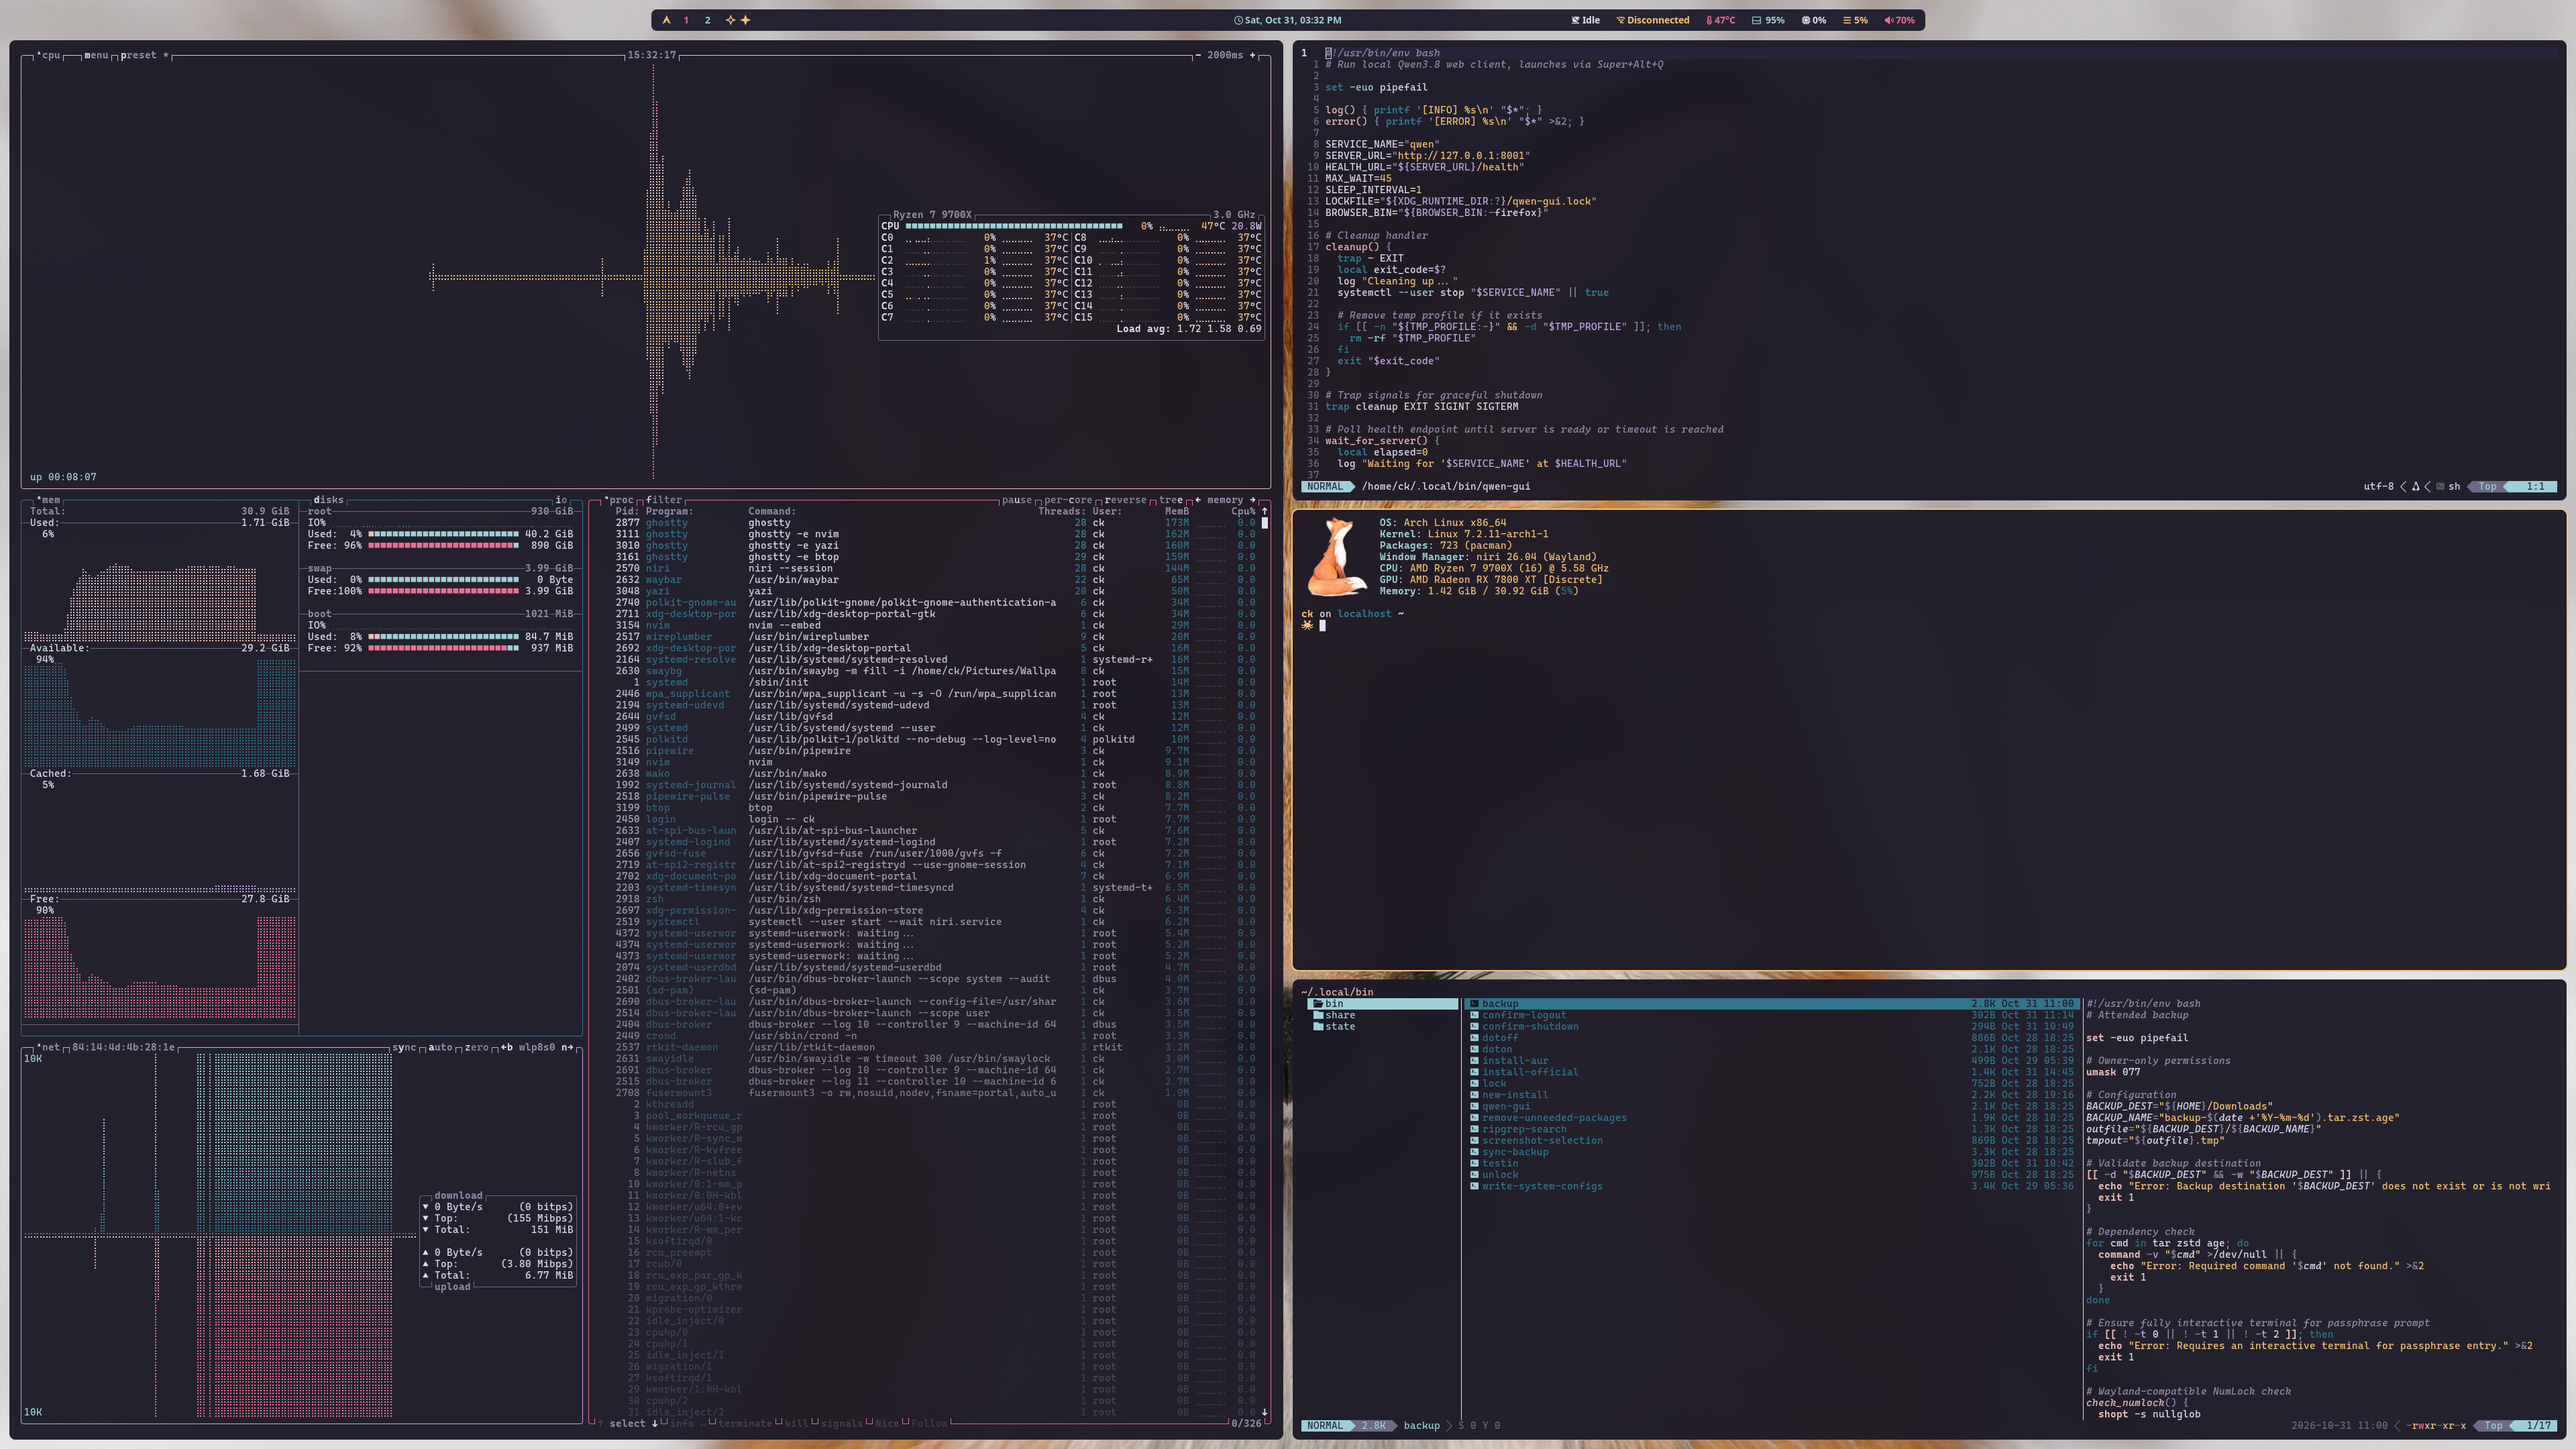
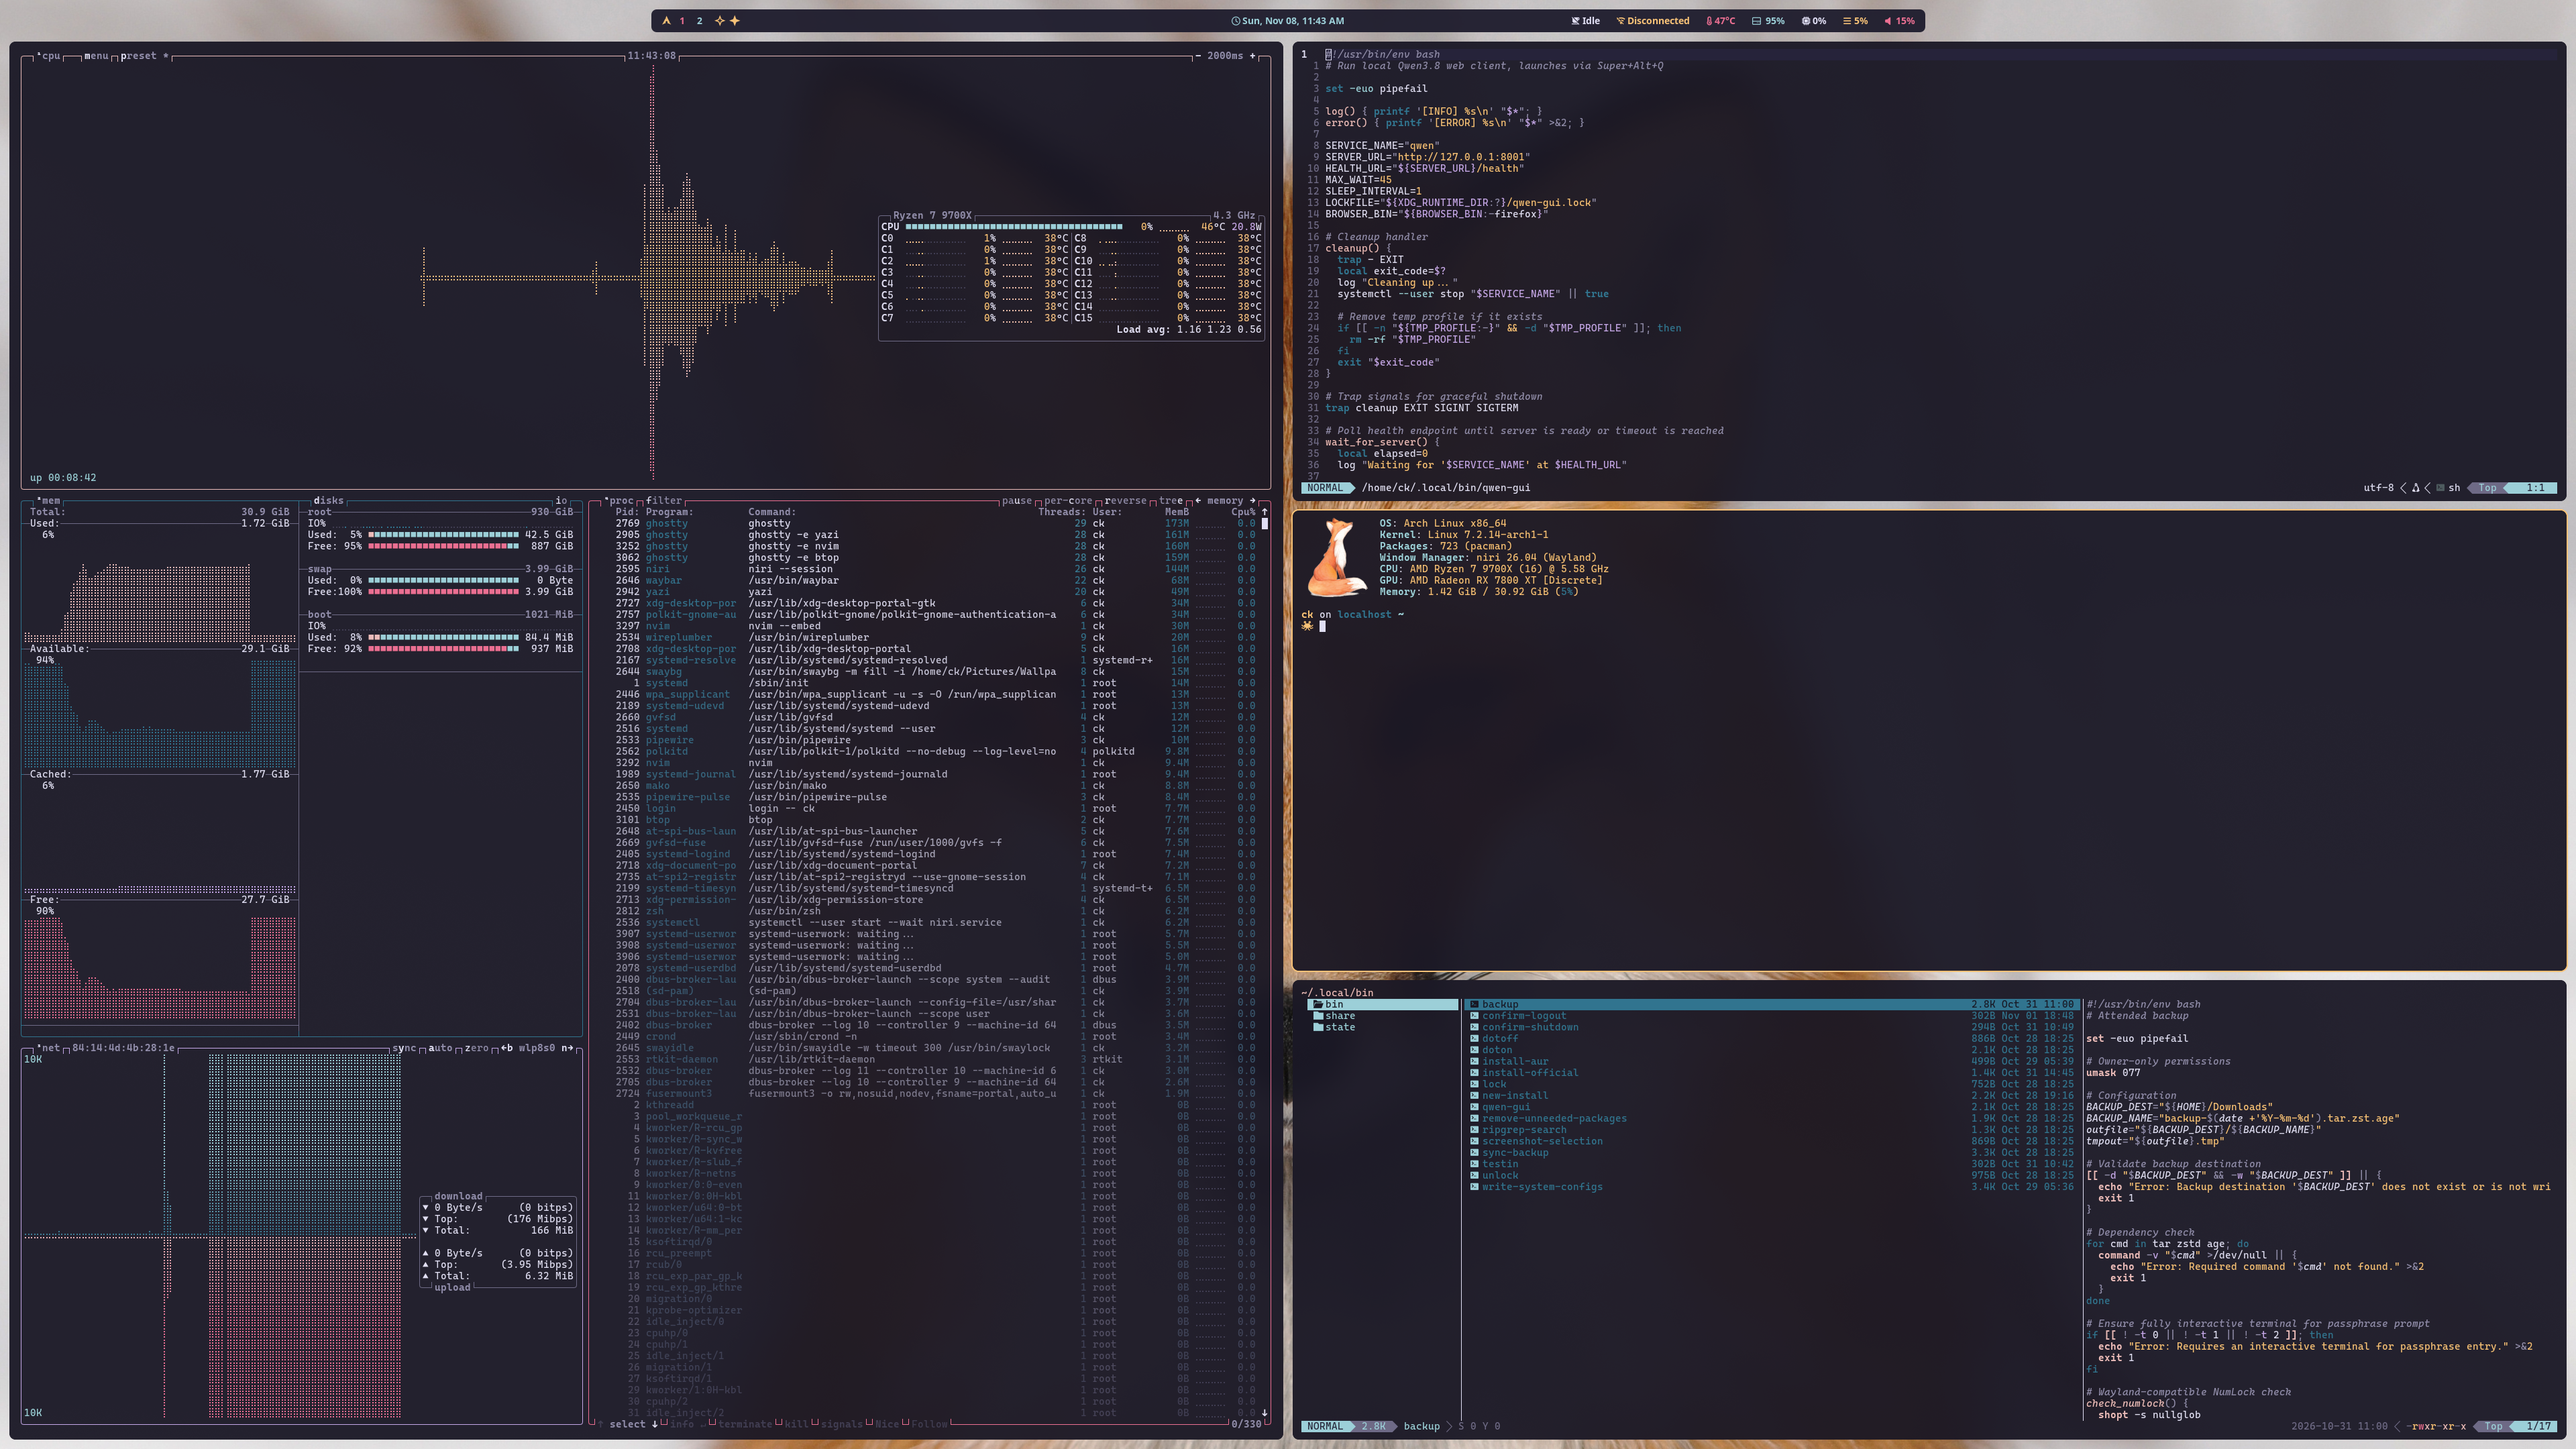
fixes for waybar v0.16.0 CSS changes

diff --git a/.config/waybar/style.css b/.config/waybar/style.css
@@ -23,11 +23,12 @@ tooltip label {
 
 #custom-archicon {
   color: #f6c177;
-  margin: 5px 4px 5px 8px;
+  margin: 5px 0 5px 8px;
 }
 
 #workspaces button {
   color: #e0def4;
+  margin: 5px 0 5px 10px;
 }
 
 #workspaces button.active {
